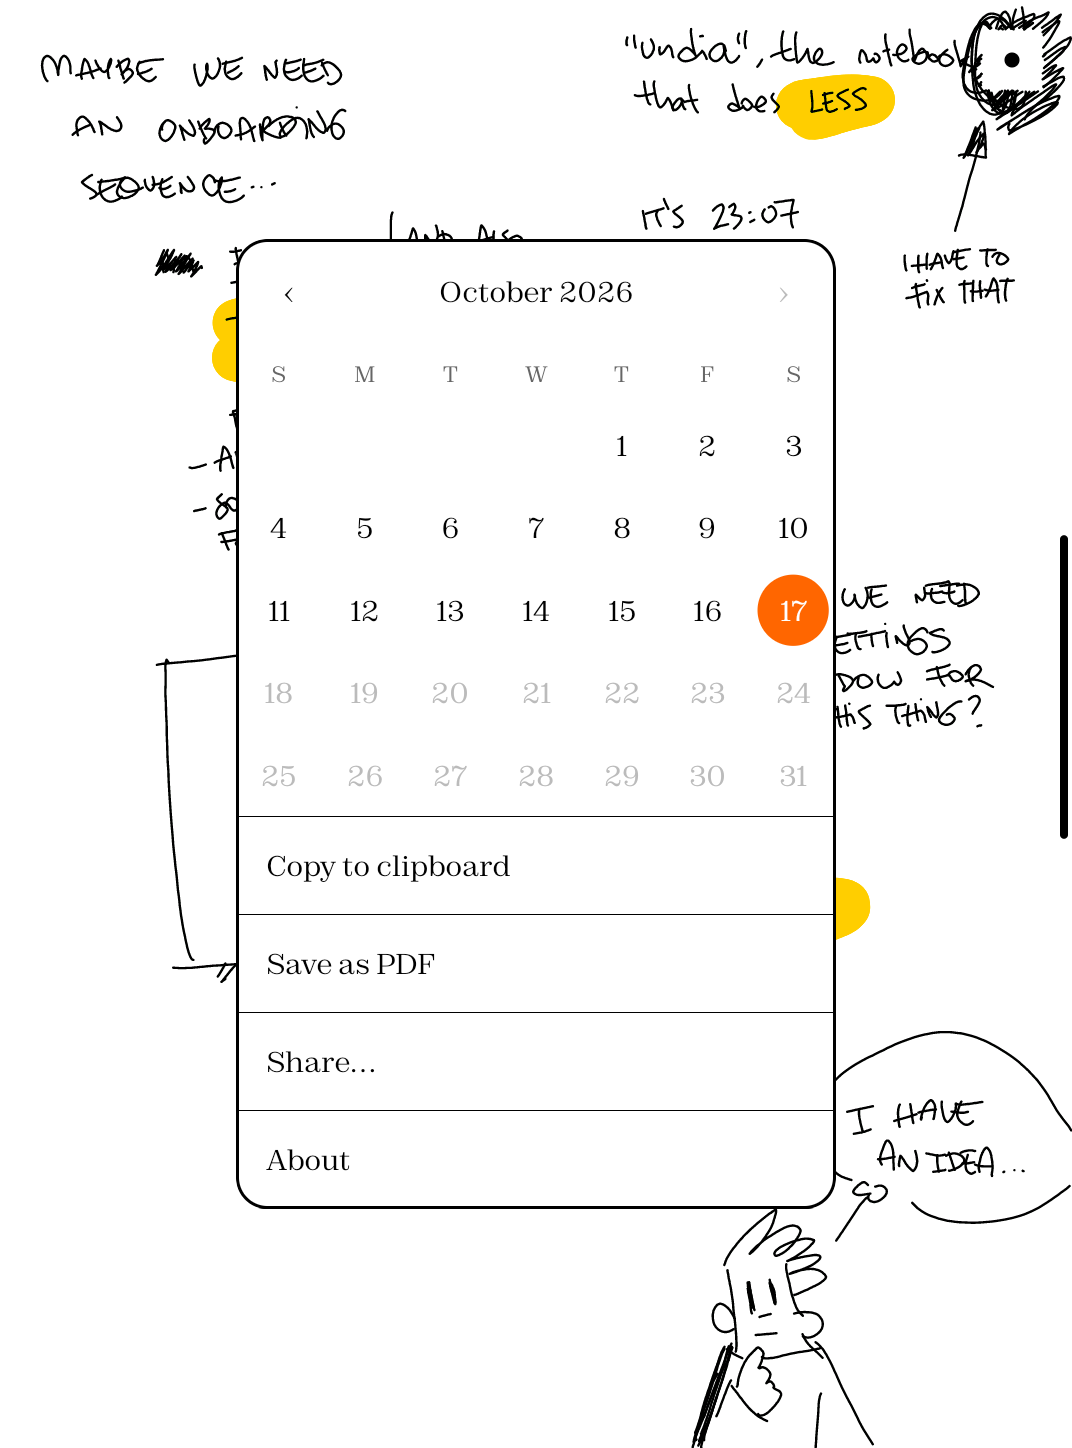
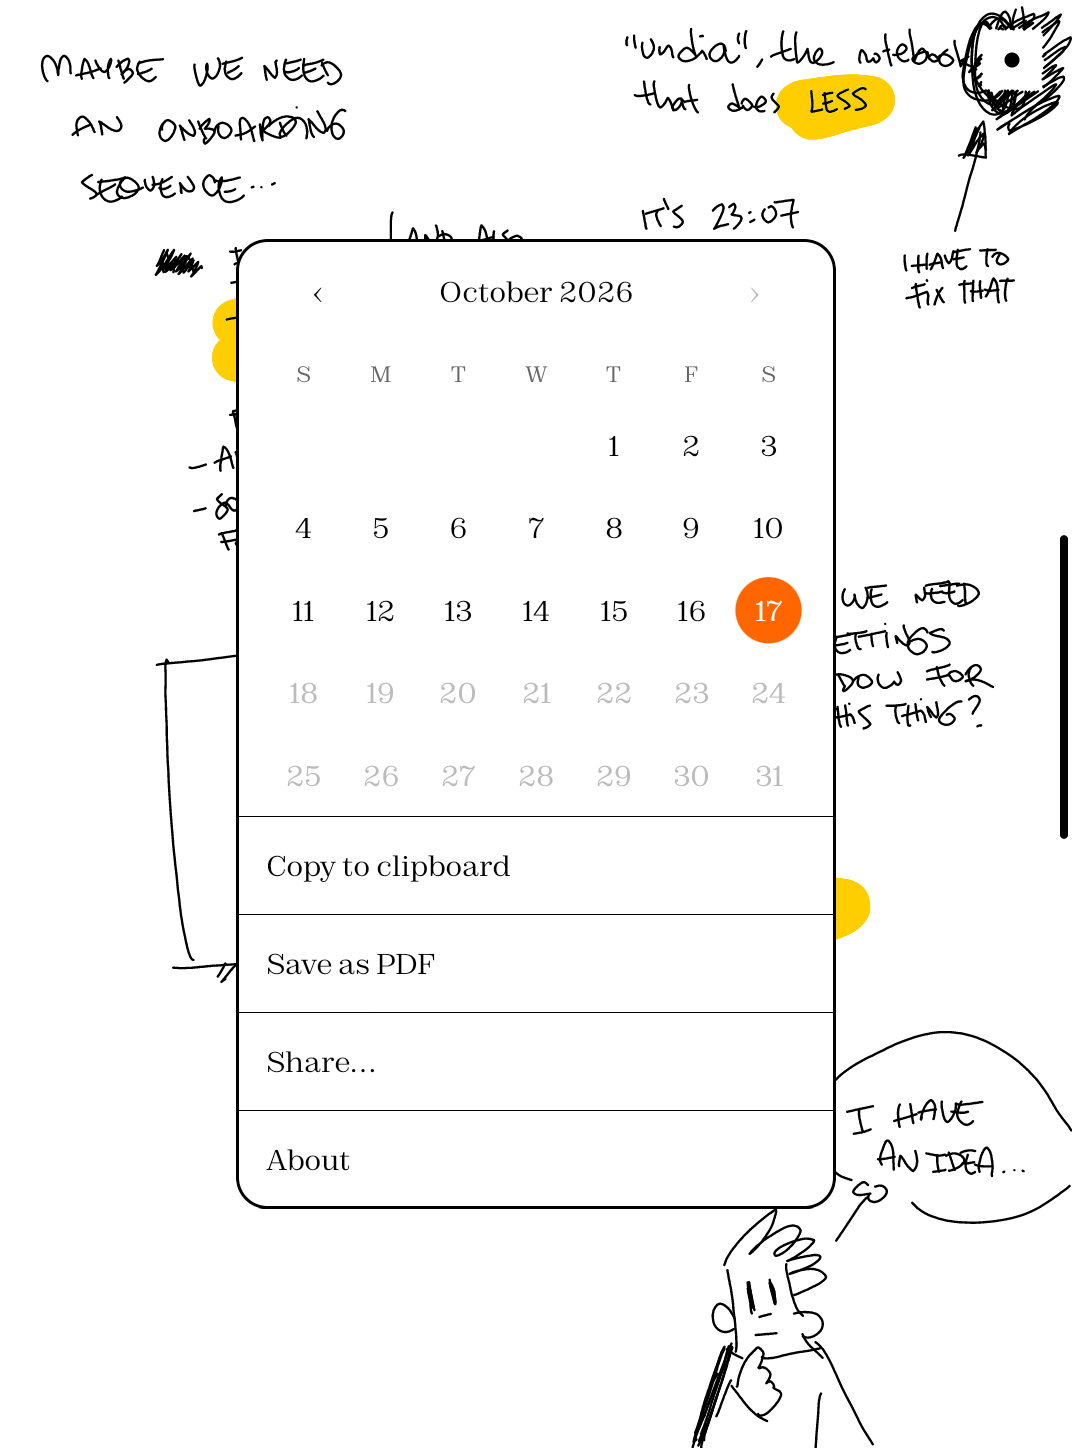
Calendar: 1 em of side padding; retake the menu screenshot

diff --git a/app/src/main/java/com/bomberstudios/undia/CalendarGrid.kt b/app/src/main/java/com/bomberstudios/undia/CalendarGrid.kt
@@ -24,6 +24,8 @@ class CalendarGrid(context: Context) : View(context) {
     private val headerH = 56 * dp
     private val weekdayH = 32 * dp
     private val rowH = 44 * dp
+    // 1 em of the day numbers (18 sp) of space on each side
+    private val sidePad = 18 * sp
     private val firstDay = WeekFields.of(Locale.getDefault()).firstDayOfWeek
     private val monthFormat = DateTimeFormatter.ofPattern("LLLL yyyy")
 
@@ -80,29 +82,29 @@ class CalendarGrid(context: Context) : View(context) {
     /** 4 to 6, however many weeks the month spans: no empty rows. */
     private fun rows() = (offset() + month.lengthOfMonth() + 6) / 7
 
-    private fun cellWidth() = width / 7f
+    private fun cellWidth() = (width - 2 * sidePad) / 7f
 
     private fun textBaseline(p: Paint, centerY: Float) = centerY - (p.ascent() + p.descent()) / 2
 
     override fun onDraw(c: Canvas) {
         val canNext = month.isBefore(YearMonth.from(today))
         c.drawText(month.format(monthFormat), width / 2f, textBaseline(titlePaint, headerH / 2), titlePaint)
-        c.drawText("‹", headerH / 2, textBaseline(titlePaint, headerH / 2), titlePaint)
-        c.drawText("›", width - headerH / 2, textBaseline(titlePaint, headerH / 2), if (canNext) titlePaint else futurePaint)
+        c.drawText("‹", sidePad + headerH / 2, textBaseline(titlePaint, headerH / 2), titlePaint)
+        c.drawText("›", width - sidePad - headerH / 2, textBaseline(titlePaint, headerH / 2), if (canNext) titlePaint else futurePaint)
 
         val cw = cellWidth()
         for (i in 0 until 7) {
             val d = firstDay.plus(i.toLong())
             c.drawText(
                 d.getDisplayName(TextStyle.NARROW, Locale.getDefault()),
-                cw * i + cw / 2, textBaseline(weekdayPaint, headerH + weekdayH / 2), weekdayPaint
+                sidePad + cw * i + cw / 2, textBaseline(weekdayPaint, headerH + weekdayH / 2), weekdayPaint
             )
         }
 
         val offset = offset()
         for (day in 1..month.lengthOfMonth()) {
             val cell = offset + day - 1
-            val cx = cw * (cell % 7) + cw / 2
+            val cx = sidePad + cw * (cell % 7) + cw / 2
             val cy = headerH + weekdayH + rowH * (cell / 7) + rowH / 2
             val date = month.atDay(day)
             val r = minOf(cw, rowH) / 2 - 3 * dp
@@ -127,15 +129,15 @@ class CalendarGrid(context: Context) : View(context) {
         val y = e.y
         if (y < headerH) {
             when {
-                x < headerH -> month = month.minusMonths(1)
-                x > width - headerH && month.isBefore(YearMonth.from(today)) -> month = month.plusMonths(1)
+                x < sidePad + headerH -> month = month.minusMonths(1)
+                x > width - sidePad - headerH && month.isBefore(YearMonth.from(today)) -> month = month.plusMonths(1)
             }
             requestLayout() // the number of rows can change
             invalidate()
             return true
         }
         if (y < headerH + weekdayH) return true
-        val col = (x / cellWidth()).toInt().coerceIn(0, 6)
+        val col = ((x - sidePad) / cellWidth()).toInt().coerceIn(0, 6)
         val row = ((y - headerH - weekdayH) / rowH).toInt()
         val day = row * 7 + col - offset() + 1
         if (day in 1..month.lengthOfMonth()) {
